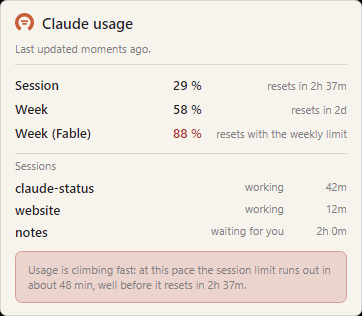
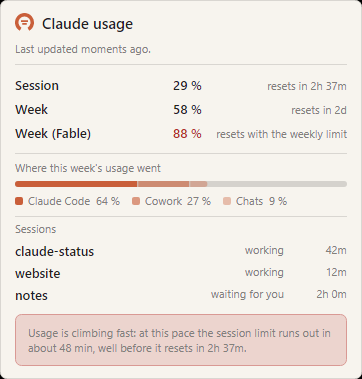
docs(readme): where the week went, with regenerated screenshots
The fake day and the screenshot data carry a split by surface and Fable's
share of the week, so every generated image shows the split bar. Adds a hover
card shot for the new README section and describes the split in the manual.

The report's footer now prints a placeholder config path: it printed the temp
directory of whoever regenerated the images, account name included.

diff --git a/tests/ClaudeStatus.App.Tests/ScreenshotGenerator.cs b/tests/ClaudeStatus.App.Tests/ScreenshotGenerator.cs
@@ -154,6 +154,9 @@ public class ScreenshotGenerator(HeadlessAppFixture fixture)
                 Path.Combine(root!, "taskbar-widget-working.png"));
             Save(RenderDetails(Theme("claude"), Sessions()), Path.Combine(root!, "window-details-sessions.png"));
             Save(RenderUsageCard(Theme("claude")), Path.Combine(root!, "usage-card-notice.png"));
+
+            // The hover card on its own: the limits and where the week went.
+            Save(RenderUsageCard(Theme("claude"), busy: false), Path.Combine(root!, "taskbar-widget-hover.png"));
         });
     }
 
@@ -173,13 +176,26 @@ public class ScreenshotGenerator(HeadlessAppFixture fixture)
     /// window in each of the three states the bars can be in, so a screenshot
     /// shows the normal, the busy and the alert colour at once.
     /// </remarks>
+    /// <remarks>
+    /// The week is split by surface, so every shot of the weekly bar shows its
+    /// segments, and Fable carries its slice of the week (88 % of a 50 %
+    /// allowance is 44 % of the week), as the endpoint has reported since
+    /// 2026-10-17.
+    /// </remarks>
     private static UsageSnapshot Snapshot() => new(
         Session: UsageWindow.Create(29d, Now.AddHours(2).AddMinutes(37)),
         Week: UsageWindow.Create(58d, Now.AddDays(2)),
-        WeekFable: UsageWindow.Create(88d, Now.AddDays(2)),
+        WeekFable: UsageWindow.Create(88d, Now.AddDays(2)) with
+        {
+            WeeklySharePercent = 44d,
+            WeeklyAllowancePercent = 50d,
+        },
         OtherWindows: new Dictionary<string, UsageWindow>(),
         FetchedAt: Now,
-        IsStale: false);
+        IsStale: false)
+    {
+        WeekBreakdown = FakeUsageProvider.SampleBreakdown(Now),
+    };
 
     /// <summary>
     /// Renders a window and hands back its pixels.
@@ -291,7 +307,8 @@ public class ScreenshotGenerator(HeadlessAppFixture fixture)
         return Render(window);
     }
 
-    private static WriteableBitmap RenderUsageCard(Theme theme)
+    /// <param name="busy">With the session list and a pace warning, as the pace shot shows it.</param>
+    private static WriteableBitmap RenderUsageCard(Theme theme, bool busy = true)
     {
         ThemeApplier.Apply(Application.Current!, theme, string.Empty, osdTransparency: 0d);
 
@@ -299,6 +316,11 @@ public class ScreenshotGenerator(HeadlessAppFixture fixture)
         var viewModel = new TaskbarWidgetViewModel(l);
         viewModel.Configure(80d, showFable: false);
         viewModel.Update(Snapshot(), IndicatorAlert.None, Now);
+        if (!busy)
+        {
+            return Render(new UsageCardWindow { DataContext = viewModel });
+        }
+
         viewModel.ShowSessions = true;
         viewModel.UpdateSessions(Sessions(), Now);
         viewModel.NoticeText = l.Format(
@@ -349,7 +371,10 @@ public class ScreenshotGenerator(HeadlessAppFixture fixture)
 
         public string OperatingSystemName => "Test OS";
 
-        public string ConfigDirectory => Path.Combine(Path.GetTempPath(), "claudestatus-shotgen");
+        // Printed in the report's footer, so, as with the config store above, a
+        // placeholder: a temp path put the account name of whoever regenerated
+        // the images into the readme. Nothing writes here during a render.
+        public string ConfigDirectory => @"C:\Users\you\AppData\Roaming\ClaudeStatus";
 
         public TraySupport TraySupport => TraySupport.Available;
 

diff --git a/src/ClaudeStatus.Core/Usage/FakeUsageProvider.cs b/src/ClaudeStatus.Core/Usage/FakeUsageProvider.cs
@@ -137,9 +137,33 @@ public sealed class FakeUsageProvider : IUsageProvider
         return new UsageSnapshot(
             Session: UsageWindow.Create(session, sessionReset),
             Week: UsageWindow.Create(week, weekReset),
-            WeekFable: fable is null ? null : UsageWindow.Create(fable.Value, weekReset),
+            WeekFable: fable is null ? null : UsageWindow.Create(fable.Value, weekReset) with
+            {
+                // A 50 % allowance, the share the recorded capture reported.
+                WeeklySharePercent = Math.Round(fable.Value / 2d),
+                WeeklyAllowancePercent = 50d,
+            },
             OtherWindows: new Dictionary<string, UsageWindow>(),
             FetchedAt: now,
-            IsStale: false);
+            IsStale: false)
+        {
+            WeekBreakdown = SampleBreakdown(now),
+        };
     }
+
+    /// <summary>
+    /// The week's split by surface the fake day reports: mostly Claude Code, a
+    /// fair amount of Cowork, a little chat. Shared with the screenshot generator
+    /// so the readme and a fake-data run show the same split.
+    /// </summary>
+    public static UsageBreakdown SampleBreakdown(DateTimeOffset now) => new(
+        AsOf: now.AddMinutes(-40),
+        WindowStartedAt: now.AddDays(-4).AddHours(-18),
+        Rows:
+        [
+            new UsageBreakdownRow("claude_code", "Claude Code", 64d),
+            new UsageBreakdownRow("chat", "Chats", 9d),
+            new UsageBreakdownRow("cowork", "Cowork", 27d),
+            new UsageBreakdownRow("other", "Other", 0d),
+        ]);
 }

diff --git a/README.md b/README.md
@@ -12,8 +12,9 @@ The number lives in the tray icon itself, so the answer to "do I have enough
 session left to start this?" is already on screen. Click it for the detail.
 
 It also watches your **Claude Code sessions** — which ones are working, which
-are waiting for you, and a notification when one needs you — and warns you when
-usage is climbing fast enough to hit a limit before it resets.
+are waiting for you, and a notification when one needs you — warns you when
+usage is climbing fast enough to hit a limit before it resets, and shows
+**where the week went**: the weekly bar is split by Claude Code, Cowork and chats.
 
 > **Looking for the detail?** [`docs/manual.md`](docs/manual.md) is the full
 > handbook — how it works, every setting, building, packaging, the rules the code
@@ -120,7 +121,8 @@ The widget is themed, so the card follows whichever theme you pick:
 </p>
 
 Hovering the widget opens a card with all three limits and their reset times,
-whatever the widget itself is showing, plus your Claude Code sessions.
+whatever the widget itself is showing, where the week went, and your Claude Code
+sessions.
 
 - **Left click** — the details popup. Click again to dismiss it.
 - **Right click** — Details, Full report…, Show ▸ (switch metric), Refresh,
@@ -129,14 +131,35 @@ whatever the widget itself is showing, plus your Claude Code sessions.
 | | |
 | --- | --- |
 | <img src="docs/screenshots/report/report-en.png" alt="The full report window" width="330"> | <img src="docs/screenshots/window-config.png" alt="The configuration window" width="300"> |
-| **Full report** — every window the endpoint returned, its own severity labels, exact reset timestamps, and the spend and credit blocks. | **Config** — credential, language, theme, threshold, poll interval, autostart, session watch. |
+| **Full report** — every window the endpoint returned, its own severity labels, exact reset timestamps, where the week went surface by surface, and the spend and credit blocks. | **Config** — credential, language, theme, threshold, poll interval, autostart, session watch. |
+
+### Where the week went
+
+<img src="docs/screenshots/taskbar-widget-hover.png" alt="The hover card: a bar split into Claude Code 64 %, Cowork 27 % and Chats 9 % under the three limits" width="300" align="right">
+
+The weekly limit is shared by everything you do with Claude, so the weekly bar
+is cut into one segment per surface — **Claude Code, Cowork, chats** — biggest
+share brightest, with a key underneath in the details popup and the hover card.
+The taskbar card shows the segments alone; the iCUE widget and the full report
+show both. The shares are of your usage, not of the limit: together they fill
+exactly as much of the bar as the week's percentage.
+
+The Fable limit is a slice of the weekly one, and the full report and the iCUE
+widget say how big: *takes 44 % of the weekly limit, out of the 50 % it is
+allowed*.
+
+Both come from the same unofficial endpoint as the limits, which started
+reporting them in October 2026; when it does not, the bar is simply whole.
+
+<br clear="right">
 
 ### CORSAIR XENEON EDGE — Windows only
 
 The same reading can live on a CORSAIR XENEON EDGE, as an iCUE widget in a
 small slot: the 5-hour session as a ring with usage and elapsed time as two
 arcs, the weekly and Fable rows with their bars, reset times and where each is
-heading, your Claude Code sessions as a count with the three working dots
+heading, the weekly bar split by surface with its key and Fable's slice of the
+week beside its name, your Claude Code sessions as a count with the three working dots
 beside it while a turn is running, and the pace warning as a banner. A tap on
 the screen opens the details window on the PC. Turn on **Share the reading with the
 iCUE widget** in Config → Behaviour, install `ClaudeUsage.icuewidget` from the

diff --git a/docs/manual.md b/docs/manual.md
@@ -160,9 +160,13 @@ is nothing there to fix.
   in sequence - Claude's own thinking sign - and the box breathes between two
   shades of the theme's accent. The mark is back the moment nothing is working;
   an open but idle session (`0/1`) shows the mark.
-- Hovering opens a card with all three limits, their reset times, the sessions
-  list, and the pace warning when there is one. Left and right click do what
-  they do on the tray icon.
+- The weekly spend bar is cut into one segment per surface - Claude Code,
+  Cowork, chats - biggest share at full strength, the rest fainter, when the
+  endpoint reports the split. Too small for a key here; the hover card and the
+  details popup carry one.
+- Hovering opens a card with all three limits, their reset times, where the
+  week went (the split bar and its key), the sessions list, and the pace warning
+  when there is one. Left and right click do what they do on the tray icon.
 - Falls back to the tray icon when the taskbar cannot be joined (a vertical
   taskbar, or a Windows update that moves things).
 
@@ -174,6 +178,10 @@ is nothing there to fix.
   a count with one bar per session, the three working dots while a turn is in
   progress, and the pace warning as a banner. Red past the threshold, `✕` when
   spent, faded with a `STALE` box when old.
+- The weekly bar is split by surface, with a key between the row's name and its
+  figure (`■ Code 64  ■ Cowork 27`), and the Fable row says how much of the
+  weekly limit it takes (`44% of 7d, cap 50%`). Both give way when space is
+  short; **Show where the week went** in the widget's settings turns them off.
 - It reaches the app over a WebSocket to the IPv6 loopback address, the one
   route iCUE leaves open to a widget; the app listens on `127.0.0.1` and `[::1]`.
 - Fed by the app over a local port, on when **Config → Behaviour → Share the
@@ -226,7 +234,8 @@ is nothing there to fix.
 ### The two windows
 
 **Details** is the glance: three bars with big percentages and "resets in 2h 37m"
-under each. It closes when it loses focus. **Refresh** forces a poll, subject to
+under each, the weekly one split by surface with a key under it - Claude Code,
+Cowork, chats, as shares of the week's usage. It closes when it loses focus. **Refresh** forces a poll, subject to
 a 30-second cooldown that exists so leaning on the button cannot get you rate
 limited — if you hit it, the window says so rather than appearing to do nothing.
 
@@ -242,7 +251,8 @@ but do nothing when clicked.
 
 **Full report** (the *More…* button, or the context menu) is for looking things
 up: every window the endpoint returned, its own severity labels, exact reset
-timestamps, and the pay-as-you-go and prepaid-credit blocks — including when they
+timestamps, how much of the weekly limit the Fable window takes and may take,
+where the week went surface by surface, and the pay-as-you-go and prepaid-credit blocks — including when they
 are switched off, because "off" is itself an answer. It is resizable, has a
 taskbar entry, and survives being clicked away from.
 

diff --git a/docs/screenshots.md b/docs/screenshots.md
@@ -41,6 +41,7 @@ Both machines then show exactly:
 | session (5 h) | **29 %**, resetting in **2:37** |
 | week (7 d) | **58 %** |
 | week, Fable | **44 %** — only where the Fable column is switched on |
+| where the week went | Claude Code **64 %**, Cowork **27 %**, chats **9 %** (`FakeUsageProvider.SampleBreakdown`, shared with the generated images) |
 
 `Screenshot` is `Healthy` with one difference, and it is the whole reason the
 scenario exists: the session window's reset carries fifty seconds of slack, so
